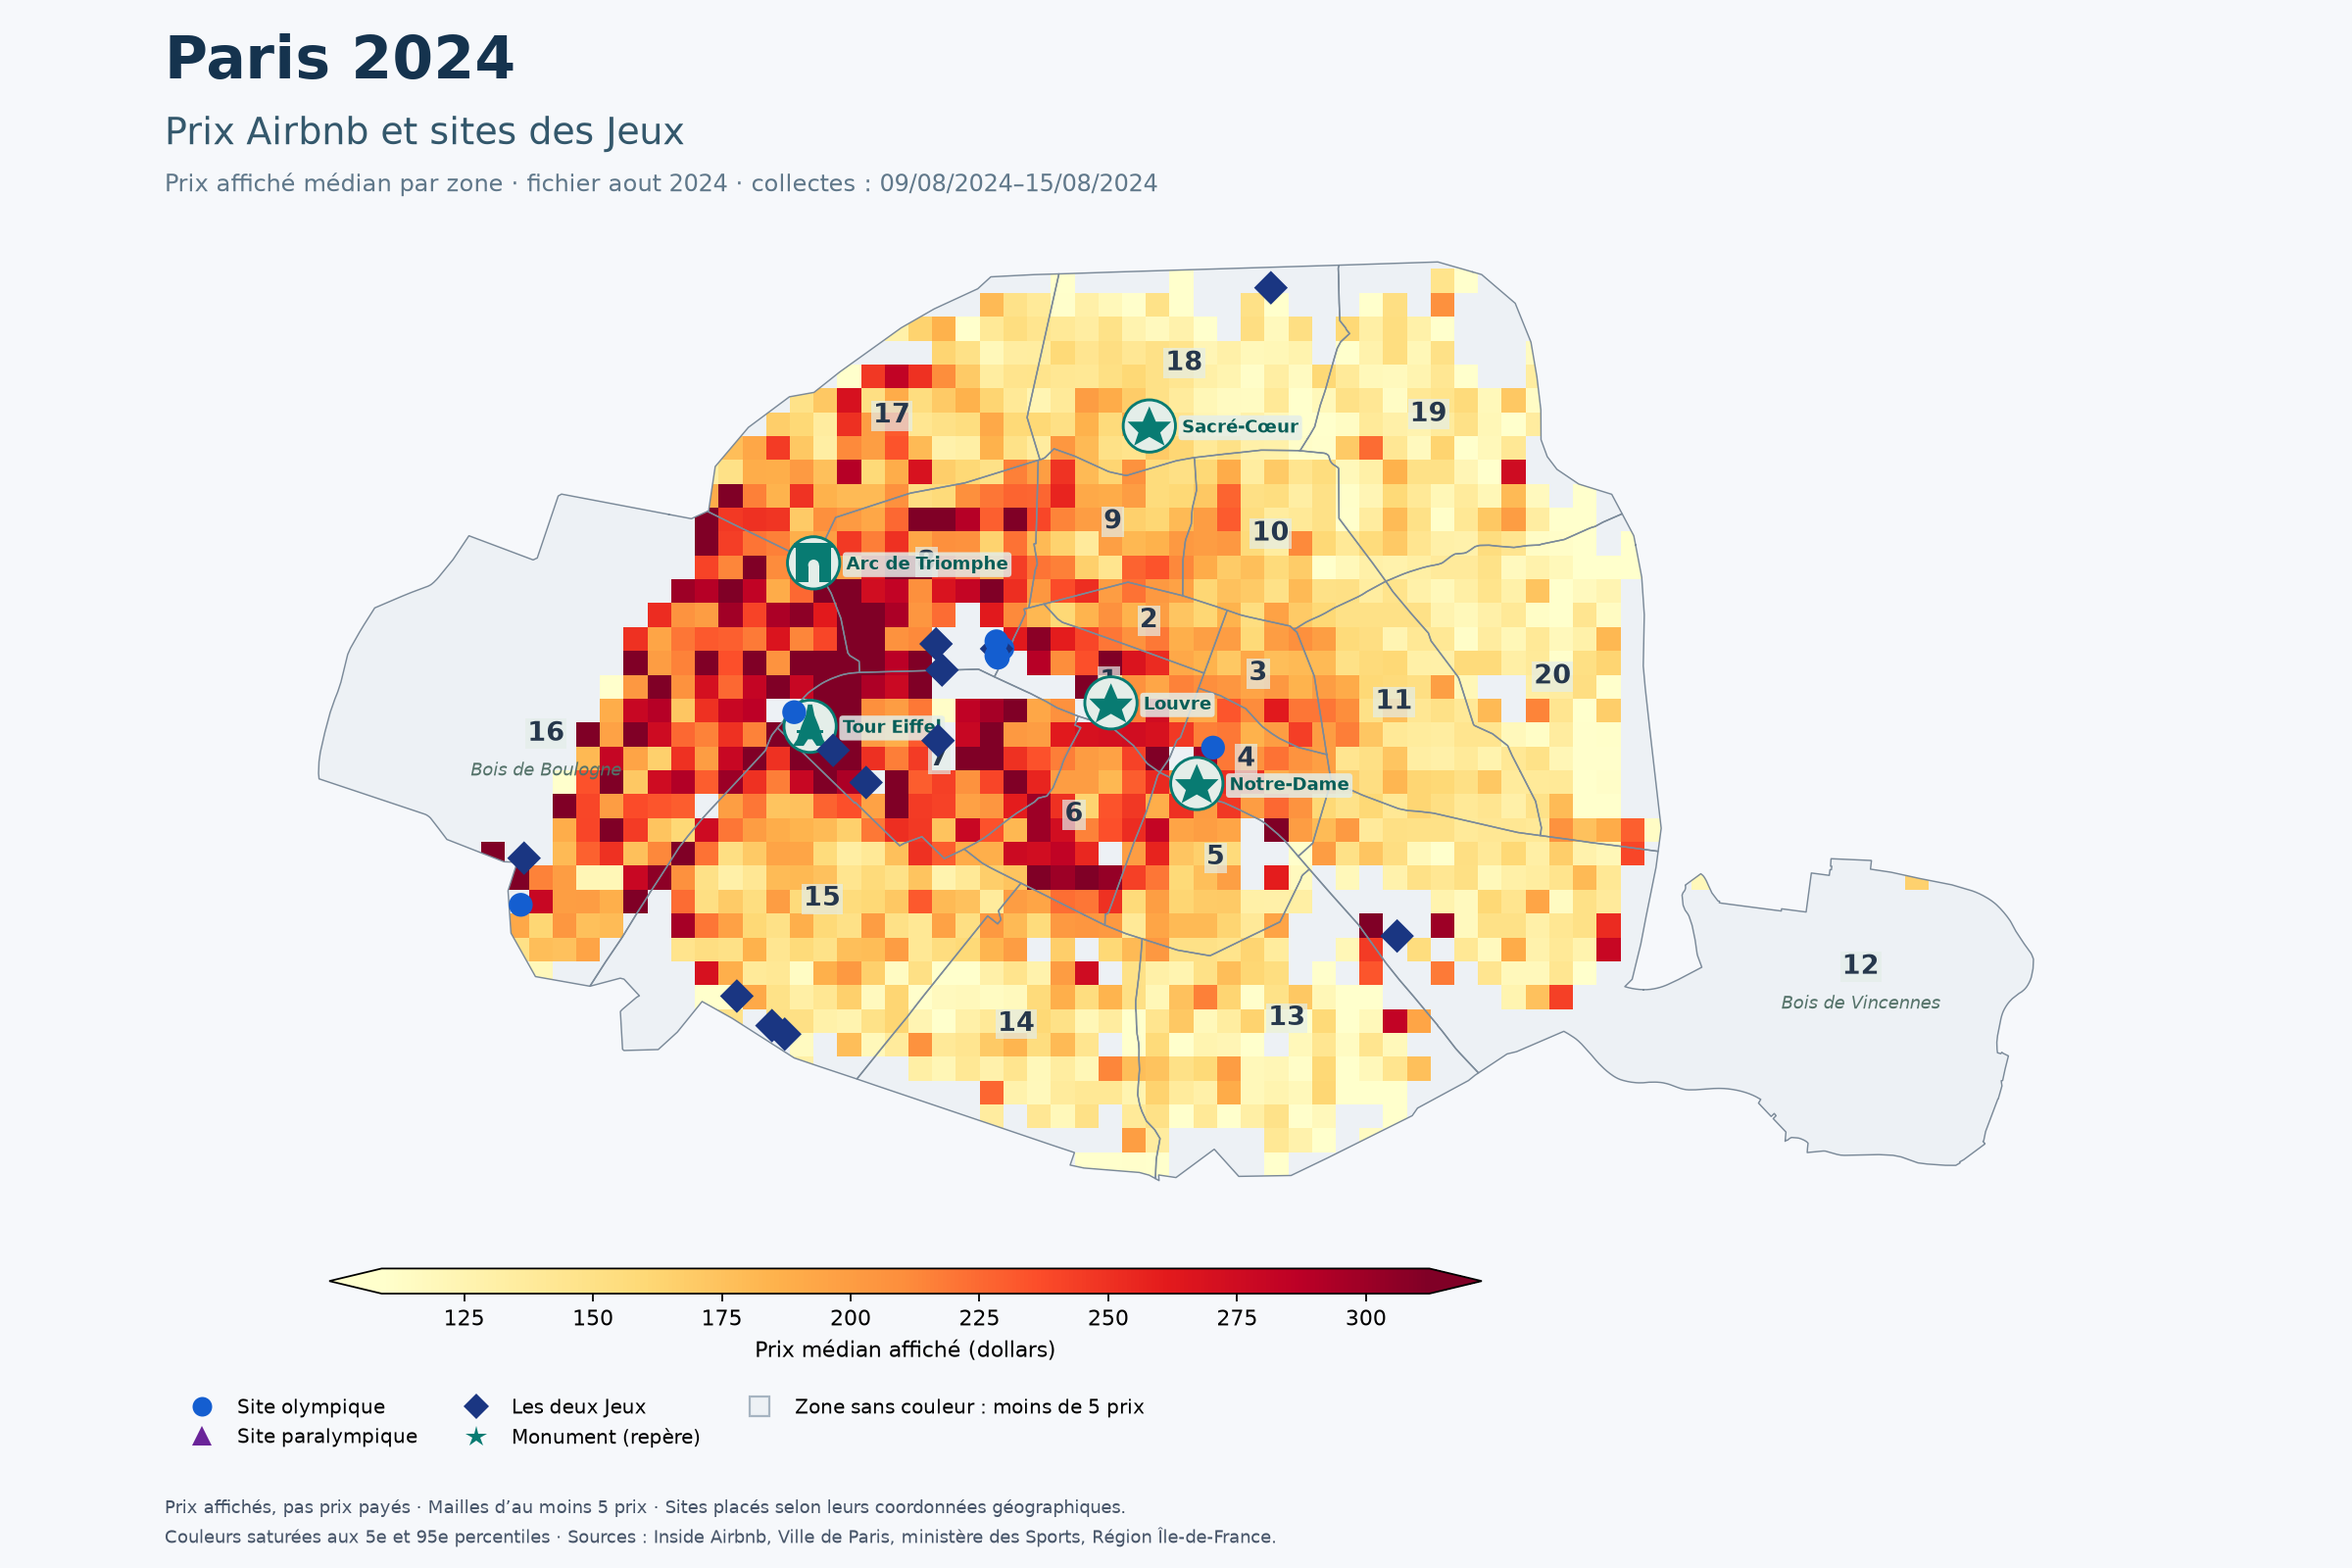
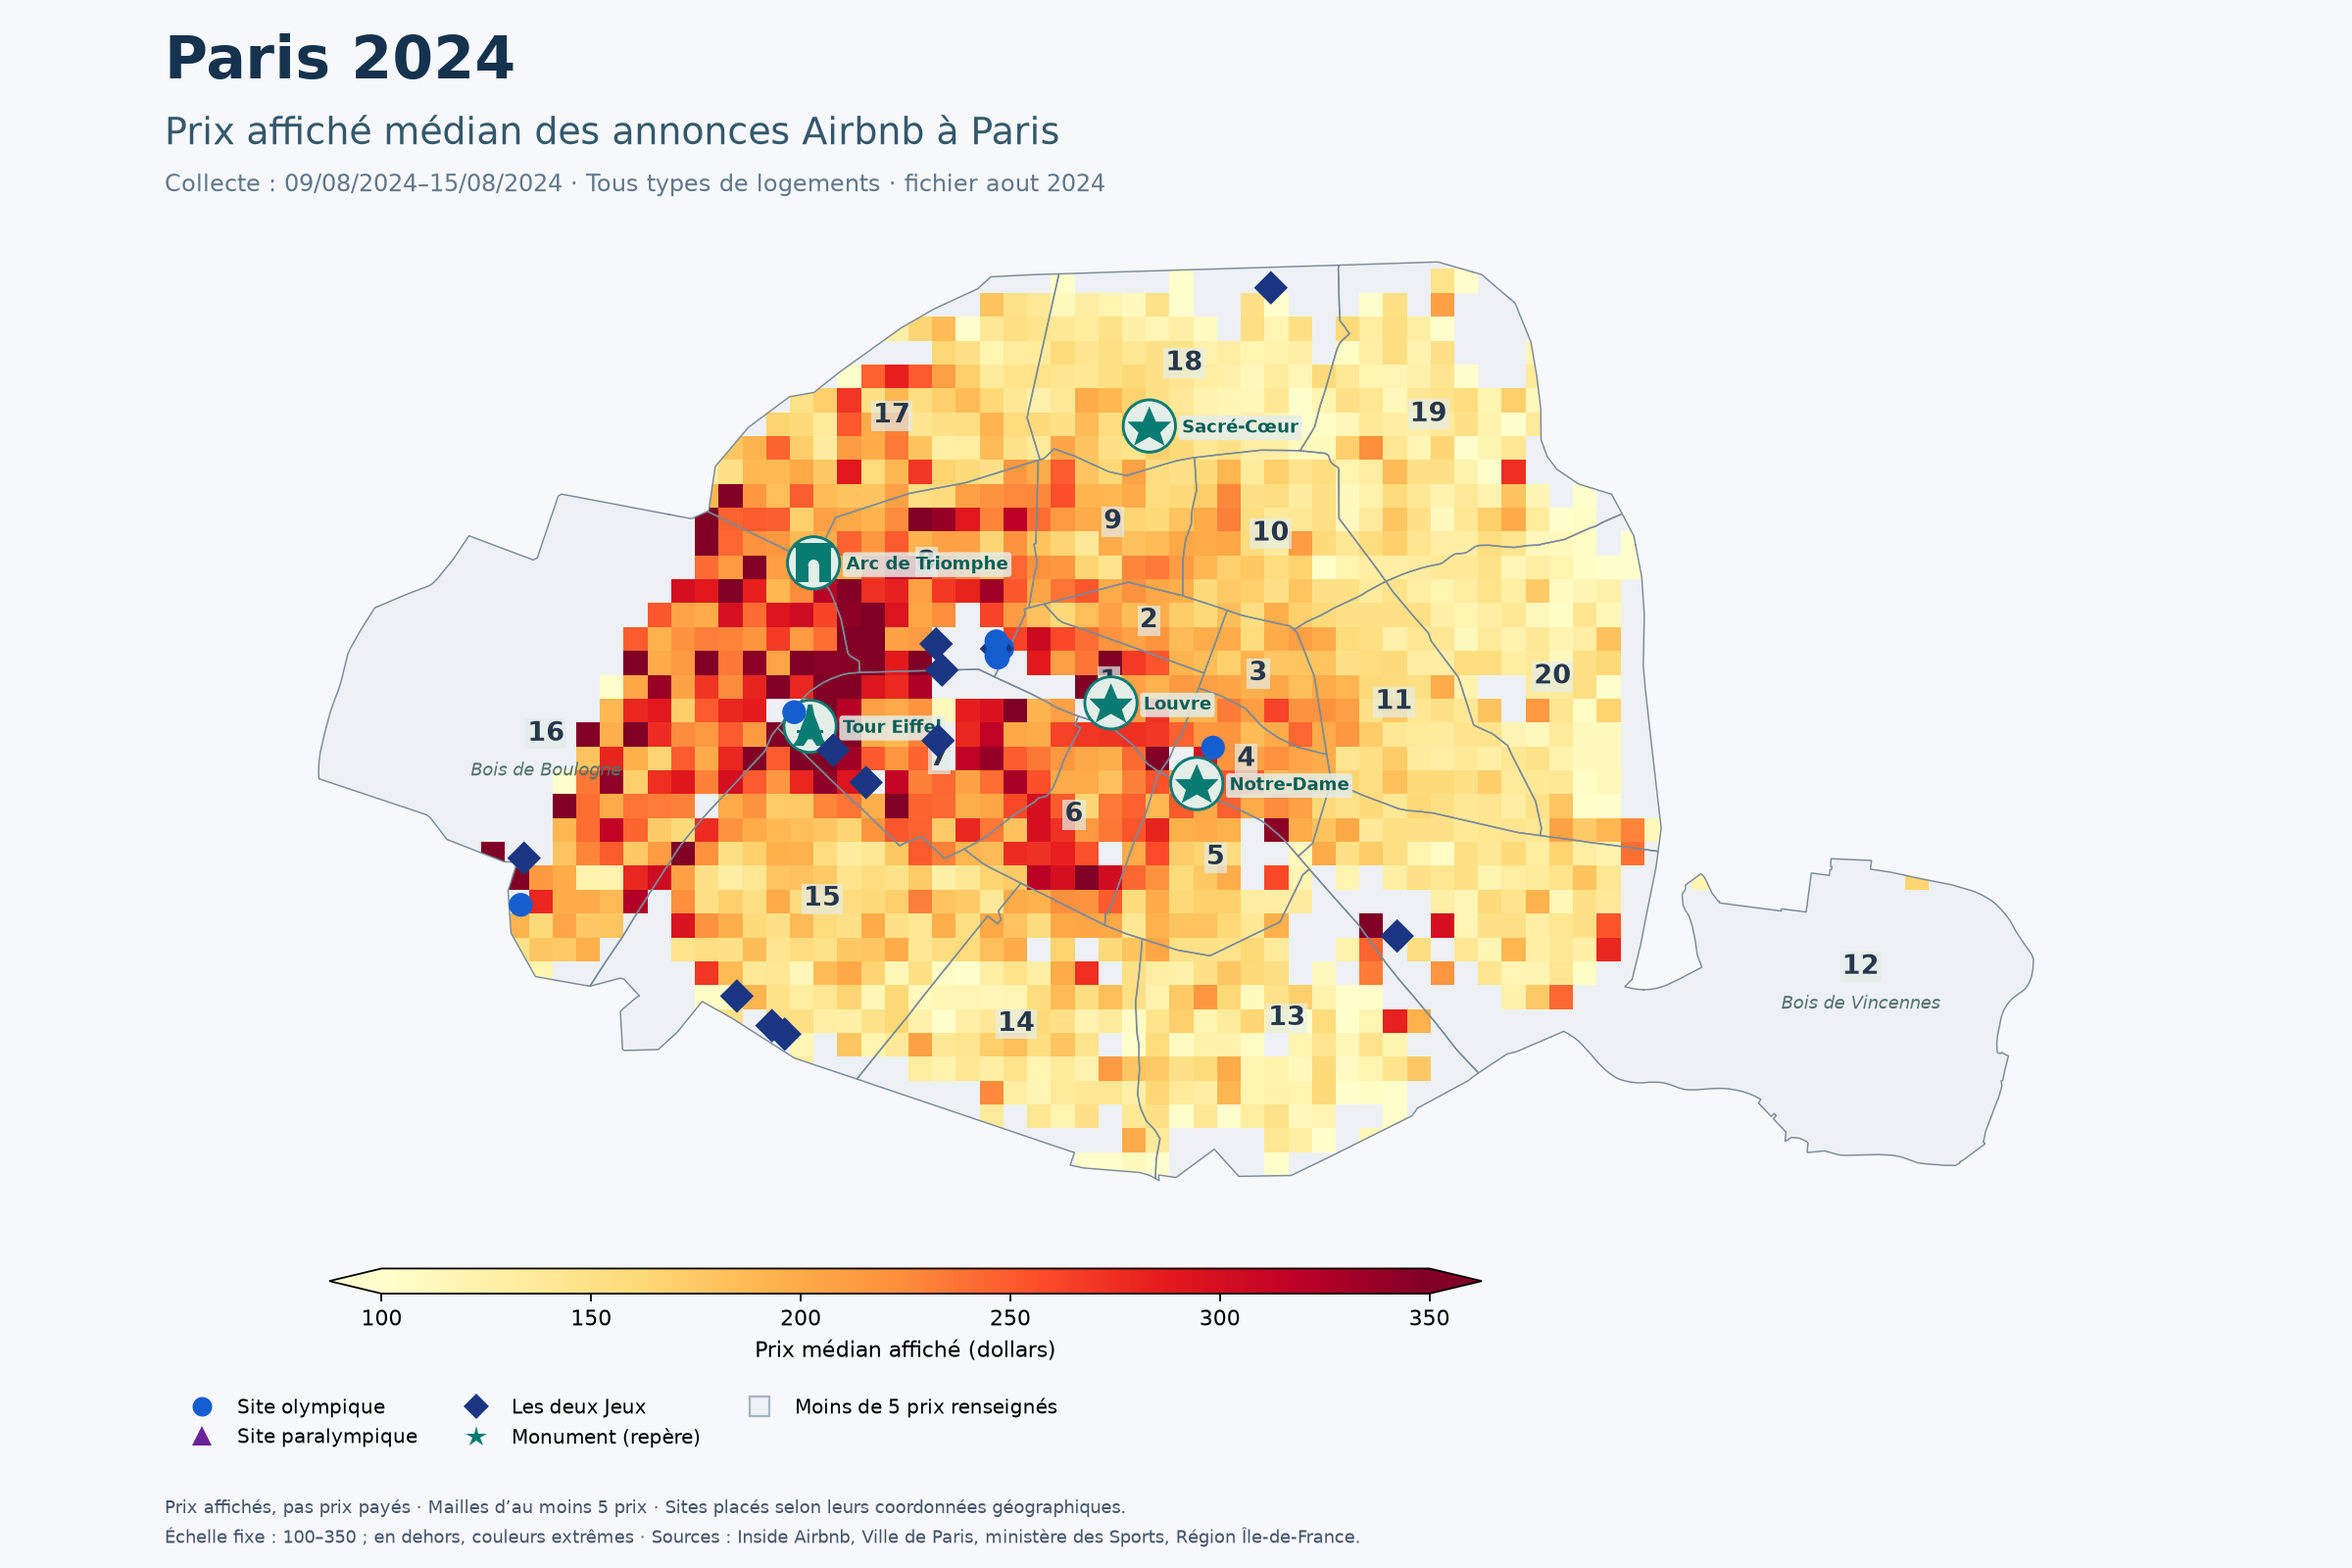
autres types de cartes

diff --git a/carte_sites_paris.py b/carte_sites_paris.py
@@ -6,6 +6,7 @@ Les prix affichés sont issus des annonces, pas des réservations.
 """
 import argparse
 import csv
+from functools import lru_cache
 import json
 import math
 import os
@@ -35,10 +36,16 @@ DOSSIER = Path(__file__).resolve().parent
 CONTOURS = DOSSIER / "contours_arrondissements.geojson"
 SITES = DOSSIER / "donnees_sites" / "donnees_nettoyees.csv"
 FICHIERS = {
+    "mai": "etiennealpy/données paris/listing_11_mai_2024.csv",
+    "juin": "etiennealpy/données paris/listing_10_juin_2024",
     "juillet": "etiennealpy/données paris/listing_14_juillet_2024.csv",
     "aout": "etiennealpy/données paris/listing_09_aout_2024.csv",
     "septembre": "etiennealpy/données paris/listing_6_septembre_2024",
 }
+# Bornes fixes communes à toutes les cartes : les valeurs situées au-delà des
+# bornes utilisent les couleurs extrêmes de la légende.
+PRIX_MIN_ECHELLE = 100
+PRIX_MAX_ECHELLE = 350
 SITES_PARIS = {"BCY", "CDM", "SP1", "SP4", "SP6", "CPL", "GRP", "HDV", "INV",
                "LCO", "LC1", "LC2", "LC3", "LC4", "PDP", "ALX", "RGA", "EIF", "TRO"}
 MONUMENTS = [("Arc de Triomphe", 48.8738, 2.2950), ("Tour Eiffel", 48.8584, 2.2945),
@@ -63,16 +70,34 @@ def charger_sites():
     return list(sites.values())
 
 
+@lru_cache(maxsize=1)
 def charger_annonces(mois):
     chemin = FICHIERS[mois]
     print(f"Chargement des annonces : {chemin} ...", flush=True)
     url = "https://minio.lab.sspcloud.fr/" + quote(chemin, safe="/")
-    df = pd.read_csv(url, usecols=["id", "latitude", "longitude", "price", "last_scraped"], dtype={"price": "string"})
-    df = df.drop_duplicates("id").copy()
-    df["prix"] = pd.to_numeric(df["price"].str.replace(r"[^\d.]", "", regex=True), errors="coerce")
+    df = pd.read_csv(url, usecols=["id", "latitude", "longitude", "price", "last_scraped", "room_type"], dtype={"price": "string"})
+    df["prix"] = pd.to_numeric(df["price"].str.replace(r"[^\d.\-]", "", regex=True), errors="coerce")
     for colonne in ("latitude", "longitude"):
         df[colonne] = pd.to_numeric(df[colonne], errors="coerce")
-    return df.dropna(subset=["id", "latitude", "longitude"])
+    return df
+
+
+def preparer_population(df, paris):
+    """Une ligne par identifiant : sépare les exclusions de l'analyse parisienne."""
+    df = df.copy()
+    lignes = len(df)
+    sans_id = int(df.id.isna().sum())
+    df = df.dropna(subset=["id"])
+    doublons = int(df.duplicated("id").sum())
+    df = df.drop_duplicates("id").copy()
+    sans_coord = int(df[["latitude", "longitude"]].isna().any(axis=1).sum())
+    df = df.dropna(subset=["latitude", "longitude"])
+    masque = contains_xy(paris, df.longitude.to_numpy(), df.latitude.to_numpy())
+    hors_paris = int((~masque).sum())
+    df = df.loc[masque].copy()
+    df["prix_valide"] = df.prix.notna() & (df.prix > 0)
+    return df, {"lignes": lignes, "sans_id": sans_id, "doublons": doublons,
+                "sans_coord": sans_coord, "hors_paris": hors_paris}
 
 
 def ajouter_icone_monument(ax, nom, lon, lat):
@@ -94,32 +119,38 @@ def ajouter_icone_monument(ax, nom, lon, lat):
     ax.add_artist(AnnotationBbox(zone, (lon, lat), frameon=False, pad=0, zorder=10))
 
 
-def creer_carte(mois="aout", afficher=True):
+def creer_carte(mois="aout", afficher=True, type_logement="tous"):
+    seuil = 5
     dossier_cartes = DOSSIER / "cartes prix"
     dossier_cartes.mkdir(exist_ok=True)
-    sortie = dossier_cartes / f"carte_prix_paris_{mois}.png"
+    dossier_controles = dossier_cartes / "analyses complementaires"
+    if type_logement != "tous":
+        dossier_controles.mkdir(exist_ok=True)
+        sortie = dossier_controles / f"carte_prix_paris_{mois}_{type_logement}.png"
+    else:
+        sortie = dossier_cartes / f"carte_prix_paris_{mois}.png"
     contours = json.loads(CONTOURS.read_text(encoding="utf-8"))["features"]
     geometries = [shape(f["geometry"]) for f in contours]
     if len(geometries) != 20:
         raise ValueError("Le fichier des contours doit contenir les 20 arrondissements.")
     paris = unary_union(geometries)
     sites = charger_sites()
-    annonces = charger_annonces(mois)
-    annonces = annonces.loc[contains_xy(paris, annonces.longitude.to_numpy(), annonces.latitude.to_numpy()) & annonces.prix.notna() & (annonces.prix > 0)].copy()
+    parisien, controles = preparer_population(charger_annonces(mois), paris)
+    annonces = parisien.loc[parisien.prix_valide].copy()
+    types = {"entiers": "Entire home/apt", "chambres": "Private room"}
+    if type_logement != "tous":
+        annonces = annonces.loc[annonces.room_type == types[type_logement]].copy()
     if annonces.empty:
         raise ValueError("Aucune annonce avec prix exploitable à Paris.")
     pas_lon, pas_lat = 0.0034, 0.00225  # Mailles d'environ 250 mètres.
     annonces["x"] = np.floor(annonces.longitude / pas_lon).astype(int)
     annonces["y"] = np.floor(annonces.latitude / pas_lat).astype(int)
     mailles = annonces.groupby(["x", "y"])["prix"].agg(["median", "count"]).reset_index()
-    mailles = mailles.loc[mailles["count"] >= 5]
+    mailles = mailles.loc[mailles["count"] >= seuil]
     if mailles.empty:
-        raise ValueError("Aucune maille n'a au moins cinq prix.")
+        raise ValueError(f"Aucune maille n'a au moins {seuil} prix pour {type_logement}.")
     dates = pd.to_datetime(annonces["last_scraped"], errors="coerce").dropna()
     dates_texte = f"{dates.min():%d/%m/%Y}–{dates.max():%d/%m/%Y}" if not dates.empty else "dates non renseignées"
-    vmin, vmax = np.percentile(mailles["median"], [5, 95])
-    if vmin == vmax:
-        vmax = vmin + 1
 
     fig = plt.figure(figsize=(15, 10), facecolor="#f6f8fb")
     ax = fig.add_axes([0.06, 0.22, 0.88, 0.64])
@@ -129,7 +160,7 @@ def creer_carte(mois="aout", afficher=True):
             x, y = poly.exterior.xy
             ax.fill(x, y, facecolor="#edf1f5", edgecolor="none", zorder=0)
     cases = [Rectangle((r.x * pas_lon, r.y * pas_lat), pas_lon, pas_lat) for r in mailles.itertuples()]
-    couleurs = PatchCollection(cases, cmap="YlOrRd", norm=Normalize(vmin=vmin, vmax=vmax, clip=True), edgecolor="none", zorder=1)
+    couleurs = PatchCollection(cases, cmap="YlOrRd", norm=Normalize(vmin=PRIX_MIN_ECHELLE, vmax=PRIX_MAX_ECHELLE, clip=True), edgecolor="none", zorder=1)
     couleurs.set_array(mailles["median"].to_numpy())
     ax.add_collection(couleurs)
     chemins = []
@@ -173,8 +204,9 @@ def creer_carte(mois="aout", afficher=True):
     ax.set_aspect(1 / math.cos(math.radians(48.86)))
     ax.axis("off")
     fig.text(.07, .95, "Paris 2024", fontsize=27, weight="bold", color="#15334e")
-    fig.text(.07, .908, "Prix Airbnb et sites des Jeux", fontsize=17, color="#34586c")
-    fig.text(.07, .878, f"Prix affiché médian par zone · fichier {mois} 2024 · collectes : {dates_texte}", fontsize=11, color="#60788a")
+    titres_types = {"tous": "Tous types de logements", "entiers": "Logements entiers", "chambres": "Chambres privées"}
+    fig.text(.07, .908, "Prix affiché médian des annonces Airbnb à Paris", fontsize=17, color="#34586c")
+    fig.text(.07, .878, f"Collecte : {dates_texte} · {titres_types[type_logement]} · fichier {mois} 2024", fontsize=11, color="#60788a")
     bar = fig.colorbar(couleurs, cax=fig.add_axes([.14, .175, .49, .016]), orientation="horizontal", extend="both")
     bar.set_label("Prix médian affiché (dollars)", fontsize=10)
     fig.legend(handles=[
@@ -182,10 +214,10 @@ def creer_carte(mois="aout", afficher=True):
         Line2D([], [], marker="^", linestyle="none", markerfacecolor="#6a2499", markeredgecolor="none", markersize=9, label="Site paralympique"),
         Line2D([], [], marker="D", linestyle="none", markerfacecolor="#1a3682", markeredgecolor="none", markersize=8, label="Les deux Jeux"),
         Line2D([], [], marker="*", linestyle="none", markerfacecolor="#087b72", markeredgecolor="none", markersize=10, label="Monument (repère)"),
-        Line2D([], [], marker="s", linestyle="none", markerfacecolor="#edf1f5", markeredgecolor="#a6b4c1", markersize=9, label="Zone sans couleur : moins de 5 prix"),
+        Line2D([], [], marker="s", linestyle="none", markerfacecolor="#edf1f5", markeredgecolor="#a6b4c1", markersize=9, label=f"Moins de {seuil} prix renseignés"),
     ], loc="lower left", bbox_to_anchor=(.07, .065), ncol=3, frameon=False, fontsize=9)
-    fig.text(.07, .035, "Prix affichés, pas prix payés · Mailles d’au moins 5 prix · Sites placés selon leurs coordonnées géographiques.", fontsize=8, color="#475569")
-    fig.text(.07, .016, "Couleurs saturées aux 5e et 95e percentiles · Sources : Inside Airbnb, Ville de Paris, ministère des Sports, Région Île-de-France.", fontsize=8, color="#475569")
+    fig.text(.07, .035, f"Prix affichés, pas prix payés · Mailles d’au moins {seuil} prix · Sites placés selon leurs coordonnées géographiques.", fontsize=8, color="#475569")
+    fig.text(.07, .016, "Échelle fixe : 100–350 ; en dehors, couleurs extrêmes · Sources : Inside Airbnb, Ville de Paris, ministère des Sports, Région Île-de-France.", fontsize=8, color="#475569")
     # Remplacement atomique : évite de modifier directement une image ouverte.
     with tempfile.NamedTemporaryFile(suffix=".png", dir=dossier_cartes, delete=False) as fichier_temporaire:
         chemin_temporaire = Path(fichier_temporaire.name)
@@ -205,5 +237,11 @@ if __name__ == "__main__":
     parser = argparse.ArgumentParser(description="Carte des prix affichés autour des sites des Jeux de Paris 2024")
     parser.add_argument("--mois", choices=FICHIERS, default="aout")
     parser.add_argument("--sans-fenetre", action="store_true")
+    parser.add_argument("--analyse-complete", action="store_true", help="Créer les cartes complémentaires par type de logement.")
     args = parser.parse_args()
-    creer_carte(args.mois, afficher=not args.sans_fenetre)
+    if args.analyse_complete:
+        creer_carte(args.mois, afficher=False)
+        for type_logement in ("entiers", "chambres"):
+            creer_carte(args.mois, afficher=False, type_logement=type_logement)
+    else:
+        creer_carte(args.mois, afficher=not args.sans_fenetre)
